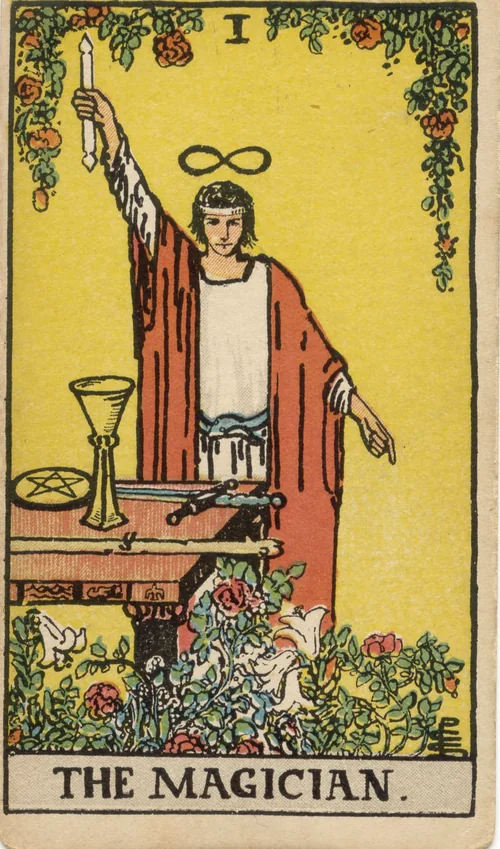
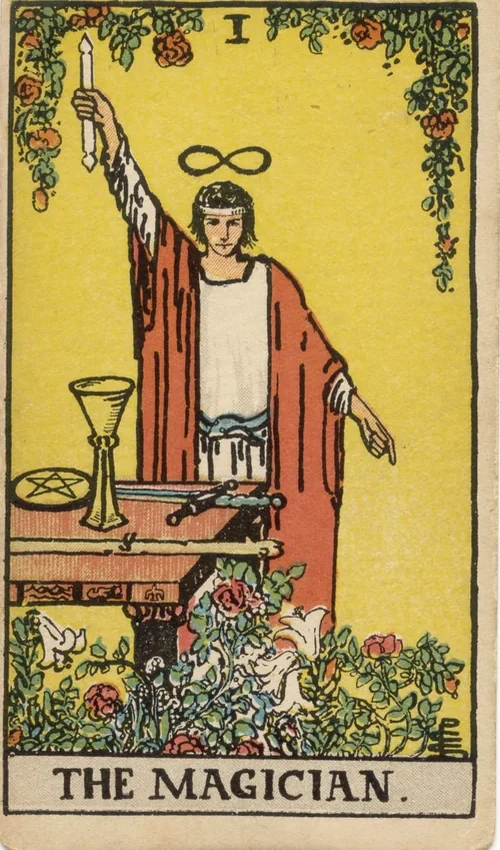
Fix tarot card proportions in Card of the Day
Standardize all Major Arcana images to a uniform 500x850 crop
(previous per-card ratios varied 0.559-0.589 vs the CSS's fixed
500/875, causing uneven cover-crop per card) and enlarge the card
stage so it reads with more presence in its section.

Changed region(s): [[0.93, 0.0306, 0.96, 0.0612], [0.0, 0.7962, 0.03, 0.8269]]

diff --git a/components/CardOfTheDay.module.css b/components/CardOfTheDay.module.css
@@ -9,8 +9,8 @@
   all: unset;
   cursor: pointer;
   perspective: 1400px;
-  width: clamp(200px, 28vw, 280px);
-  aspect-ratio: 500 / 875;
+  width: clamp(240px, 22vw, 340px);
+  aspect-ratio: 500 / 850;
   position: relative;
 }
 
